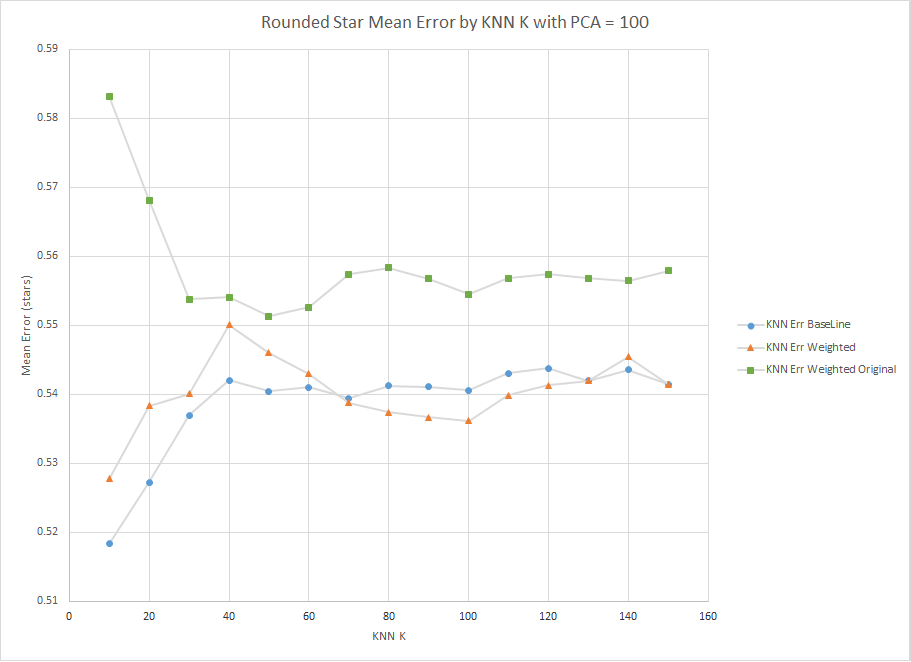
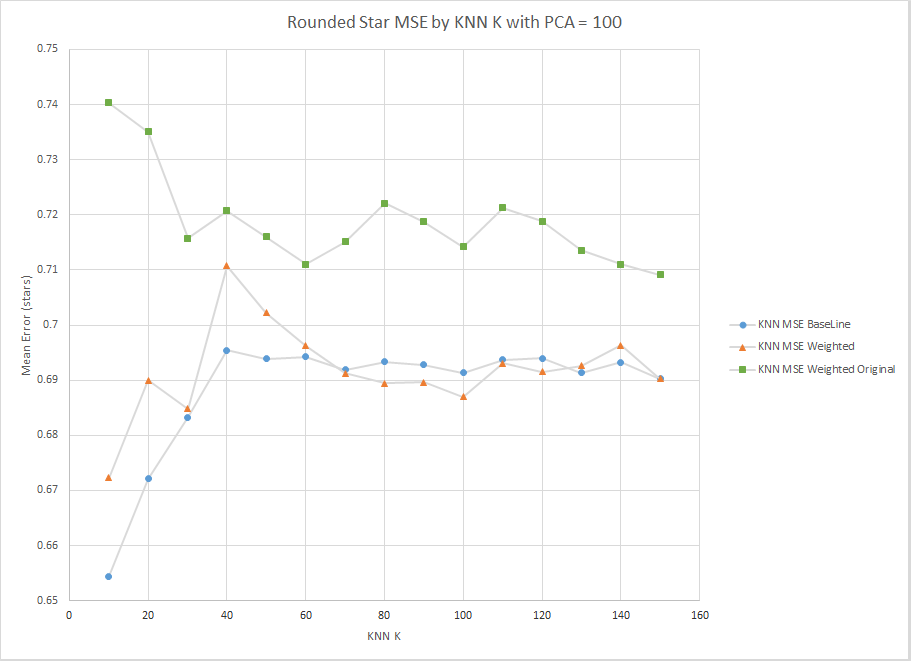
Done with results

diff --git a/Report/Yelp_Review_Final_Report.tex b/Report/Yelp_Review_Final_Report.tex
@@ -254,20 +254,20 @@ For the three weights, we chose to make the weights even: $\wu=.33$, $\ws=.33$, 
 \subsection{MSE vs Rounded Star Mean Error}
 We used two metrics to gauge the performance of our algorithm. The first was traditional mean square error (MSE). The error was calculated in the raw prediction score difference between the actual rating and the predicted rating. Actual ratings were star counts of one to five while predicted ratings were floats in this range. This metric was a raw measurement of prediction success but because star rating are actually quantized it also made sense to look at other metrics.
 
-Our second metric took into account the fact that star ratings are 1 to 5. We rounded our predicted rating before looking at the error. This error was calculated as the absolute value of the difference between the actual rating and the predicted rating.
+Our second metric took into account the fact that star ratings are 1 to 5. We rounded our predicted rating before looking at the error. This error was the MSE between the rounded prediction and the actual rating.
 
 \subsection{Conclusions}
 Based on the metrics above we were able to eventually beat the baseline. We ran a number of trials holding various parameters constant and varying one parameter at a time. Graphs of some of these trials can be seen in Figure~\ref{fig:knnMSE}, Figure~\ref{fig:pcaMSE} and Figure~\ref{fig:knnErr}. Through this process we picked $P=100$ and $K_{KNN}=100$ as close to optimal parameters.
 
-The first parameter that we varied was $P$. These results can be seen in Figure~\ref{fig:pcaMSE} which shows the MSE as the PCA parameter was varied. It can be seen that the baseline always does the best. Also of note is how poorly our original algorithm did in comparison. Since the original algorithm included all similar user averages no mater 
+The first parameter that we varied was $P$. These results can be seen in Figure~\ref{fig:pcaMSE} which shows the MSE as the PCA parameter was varied. It can be seen that the baseline always does the best. The graphs show low error for lower PCA values as the results are overfit, then a dip and gradual error increasing as too many parameters are used.
 
-As can be seen in Figure~\ref{fig:knnErr}
+Also of note from this PCA trial is how poorly our original algorithm did in comparison. Since the original algorithm included all similar user averages no mater how many similar users were actually factoring into a prediction, the similar users actually ended up providing too much variation and thus greatly increased the error. In our second algorithm implementation similar users were only included if a significant enough number were factoring into a prediction. Therefore the effect of similar users added less variance due to individual differences.
 
-- charts
-- works in what matters
-- why MSE not so good
-- overall impact of similar users
-- how many similar users were actually necessary
+Next we looked at varying the KNN parameter which had a larger impact on the error. As can be seen in Figure~\ref{fig:knnMSE} the MSE was low due to overfitting. We picked a point after the error leveled off slightly but before it began increasing again to selecting too many similar users. It is important to note that the baseline is still doing better in this plot.
+
+Our MSE plots showed that the baseline was performing better but this may not be the best metric. Since Yelp only provides integer star ratings it made sense to round our predicted rating to the nearest star. Using these rounded predictions we recalculated MSE and found that our second algorithm does better than the baseline if the KNN parameter is large enough. This can be seen in Figure~\ref{fig:knnErr}. Note that the original algorithm does not come close to the baseline.
+
+Overall we found that similar users do have an impact on ratings just not as significant as we originally imagined. We also learned that it important not to place too much significance on individual similar users as other users can add too much variation. Additionally we believe that our baseline was a good decision as the baseline was itself fairly accurate. 
 
 %=====================================================================
 
